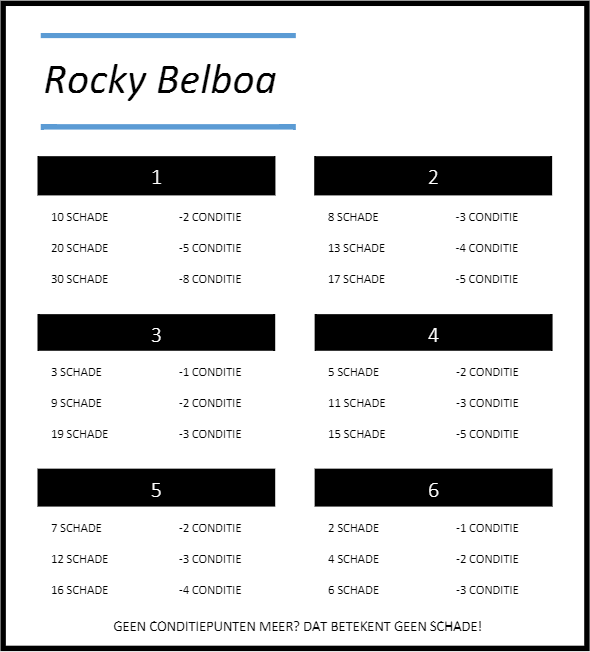
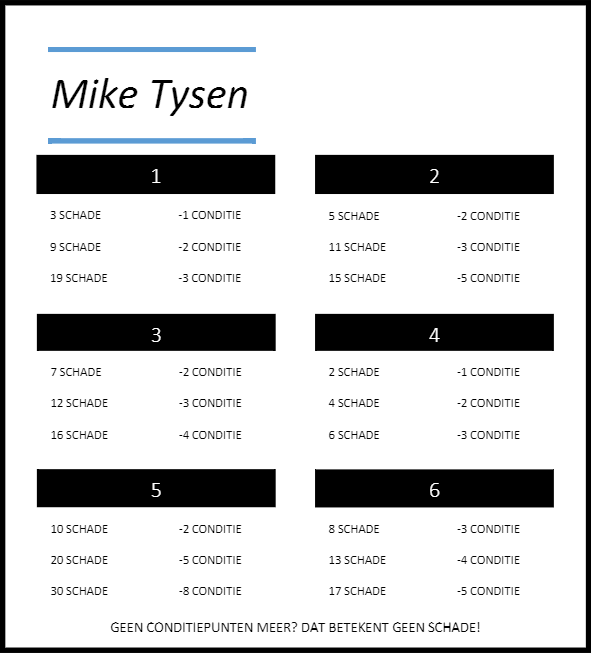
DIT FUCKING SCHERM

diff --git a/Screens.py b/Screens.py
@@ -1,3 +1,4 @@
+import os
 from Common import *
 
 pygame.display.set_caption("Super Fight Punch by SideLine")
@@ -94,8 +95,8 @@ class title2:
                 button3.DrawButton(screen, PINK)
                 if pygame.mouse.get_pressed()[0]:
                     numberOfPlayers = 1
-                    # switchScreen(game(),numberOfPlayers)
-                    switchScreen(whostarts(),numberOfPlayers)
+                    switchScreen(game(),numberOfPlayers,0)
+                    # switchScreen(whostarts(),numberOfPlayers)
             else:
                 button3.DrawButton(screen, RED)
 
@@ -104,8 +105,8 @@ class title2:
                 button4.DrawButton(screen, PINK)
                 if pygame.mouse.get_pressed()[0]:
                     numberOfPlayers = 2
-                    # switchScreen(game(),numberOfPlayers)
-                    switchScreen(whostarts(),numberOfPlayers)
+                    switchScreen(game(),numberOfPlayers,0)
+                    # switchScreen(whostarts(),numberOfPlayers)
             else:
                 button4.DrawButton(screen, RED)
 
@@ -114,8 +115,8 @@ class title2:
                 button5.DrawButton(screen, PINK)
                 if pygame.mouse.get_pressed()[0]:
                     numberOfPlayers = 3
-                    # switchScreen(game(),numberOfPlayers)
-                    switchScreen(whostarts(),numberOfPlayers)
+                    switchScreen(game(),numberOfPlayers,0)
+                    # switchScreen(whostarts(),numberOfPlayers)
             else:
                 button5.DrawButton(screen, RED)
 
@@ -124,8 +125,8 @@ class title2:
                 button6.DrawButton(screen, PINK)
                 if pygame.mouse.get_pressed()[0]:
                     numberOfPlayers = 4
-                    # switchScreen(game(),numberOfPlayers)
-                    switchScreen(whostarts(),numberOfPlayers)
+                    switchScreen(game(),numberOfPlayers,0)
+                    # switchScreen(whostarts(),numberOfPlayers)
             else:
                 button6.DrawButton(screen, RED)
 
@@ -277,17 +278,17 @@ class game:
                                 current_player.Health = 100
 
                         if current_player.Tile.Type is "fight":
-                            superFight(current_player)
+                            switchScreen(fight(),players,playerindex,"super")
 
                         if (current_player.Tile.Type is "spawn" or current_player.Tile.Type is "spawn2") and not current_player.SpawnTile:
                             if current_player.Tile.image == RED: #Red spawn tile = Player 1
-                                normalFight(current_player, players[0])
+                                switchScreen(fight(),players,playerindex,"normal",0)
                             elif current_player.Tile.image == GREEN: #Green spawn tile = Player 2
-                                normalFight(current_player, players[1])
+                                switchScreen(fight(),players,playerindex,"normal",1)
                             elif current_player.Tile.image == YELLOW: #Yellow spawn tile = PLayer 3
-                                normalFight(current_player, players[2])
+                                switchScreen(fight(),players,playerindex,"normal",2)
                             elif current_player.Tile.image == BLUE: #Blue spawn tile = Player 4
-                                normalFight(current_player, players[3])
+                                switchScreen(fight(),players,playerindex,"normal",3)
 
                         if current_player.Health < 1:
                             pass
@@ -308,30 +309,6 @@ class game:
                 a = None
 
             return current_turn, playerindex, a
-
-        def superFight(p1): #TODO
-            #Should make it display something if attack of superfighter got blocked TODO
-            #Take off Condition Points TODO
-            opponent = SuperFighters[random.randint(0, len(SuperFighters)-1)]
-            opponent.A = p1.rollDice()
-            dmg = 5 #p1.calculateDamage(p1.rollDice())
-            if opponent.Damage > p1.Damage: #player needs a damage attribute
-                p1.Health = p1.Health - (opponent.Damage - dmg)
-            else: #if player does more damage than superfighter, the attacks gets blocked therefor no damage will be taken
-                pass
-
-        def normalFight(p1, p2): #TODO
-            #display a fancy button which shows the 'fight' TODO
-            #Take off Condition Points TODO
-            numb = random.randint(1,6)
-            damageP1 = p1.calculateDamage(numb)
-            damageP2 = p2.calculateDamage(numb)
-            if damageP1 > damageP2:
-                p2.Health = p2.Health - (damageP1 - damageP2)
-            elif damageP2 > damageP1:
-                p1.Health = p1.Health - (damageP2 - damageP1)
-            else:
-                pass
 
         instructions = 0
         displayConfirmation = 0
@@ -474,6 +451,7 @@ class game:
                     button11.DrawButton(main_surface, BRIGHTRED)
                     if pygame.mouse.get_pressed(button11.Rect)[0]:
                         switchScreen(title1())
+
             pygame.display.flip()
 
 
@@ -517,6 +495,97 @@ class Instructions:
             pygame.display.flip()
 
         pygame.quit()  # Once we leave the loop, close the window.
+
+class fight:
+    def run(self,players,playerindex,type,opponent=SuperFighters[random.randint(0, len(SuperFighters)-1)]):
+
+        def superFight(p1,sf): #TODO
+            #Should make it display something if attack of superfighter got blocked TODO
+            #Take off Condition Points TODO
+            sf.A = p1.rollDice()
+            dmg = 5 #p1.calculateDamage(p1.rollDice())
+            if sf.Damage > p1.Damage: #player needs a damage attribute
+                p1.Health = p1.Health - (sf.Damage - dmg)
+            else: #if player does more damage than superfighter, the attacks gets blocked therefor no damage will be taken
+                pass
+
+        def normalFight(p1, p2): #TODO
+            #display a fancy button which shows the 'fight' TODO
+            #Take off Condition Points TODO
+            numb = random.randint(1,6)
+            damageP1 = p1.calculateDamage(numb)
+            damageP2 = p2.calculateDamage(numb)
+            if damageP1 > damageP2:
+                p2.Health = p2.Health - (damageP1 - damageP2)
+            elif damageP2 > damageP1:
+                p1.Health = p1.Health - (damageP2 - damageP1)
+            else:
+                pass
+
+        count = 6
+        if type is "super":
+            p2card = pygame.transform.scale(pygame.image.load("assets//cards//" + opponent.Name + ".png"),(500,650))
+            p2rect = p2card.get_rect()
+        elif type is "player":
+            p2card = pygame.transform.scale(pygame.image.load("assets//scorecards//sc"+str(players[opponent].Pnr)+".png"),(500,650))
+            p2rect = p2card.get_rect()
+        p1card = pygame.transform.scale(pygame.image.load("assets//scorecards//sc"+str(players[playerindex%4].Pnr)+".png"),(500,650))
+        p1rect = p1card.get_rect()
+        while count > 0:
+            ev = pygame.event.poll()  # Look for any event
+            if ev.type == pygame.QUIT:  # Window close button clicked?
+                exit()
+            mouse = pygame.mouse.get_pos()
+            screen.blit(bg, (0, 0))
+            button27.DrawButton(screen,DARKBLUE)
+            button28.DrawButton(screen,DARKBLUE)
+            button29.DrawButton(screen,DARKBLUE)
+            button30.DrawButton(screen,DARKBLUE)
+
+            textSurf, textRect = text_objects(type,largeText, WHITE)
+            textPosition = (width/2-textRect.w/2,height/6)
+            screen.blit(textSurf,textPosition)
+            if count <= 6:
+                screen.blit(p2card,(width - p1rect.w*1.08, p1rect.h/16))
+                screen.blit(p1card,(width/2 - p1rect.w*1.2, p1rect.h/16))
+                if count == 4: count -= 1
+            if count == 6 or count == 3:
+                if button30.Rect.collidepoint(mouse):
+                    button30.DrawButton(screen, BRIGHTBLUE)
+                    if pygame.mouse.get_pressed()[0]:
+                        count -= 1
+            if count <= 5:
+                text1Surf, text1rect = text_objects()
+            if count == 1 or count == 4:
+                if button27.Rect.collidepoint(mouse):
+                    button27.DrawButton(screen, BRIGHTBLUE)
+                    if pygame.mouse.get_pressed()[0]:
+                        count -= 1
+                else:
+                    button27.DrawButton(screen,BLUE)
+                if button28.Rect.collidepoint(mouse):
+                    button28.DrawButton(screen, BRIGHTBLUE)
+                    if pygame.mouse.get_pressed()[0]:
+                        count -= 1
+                else:
+                    button28.DrawButton(screen,BLUE)
+                if button29.Rect.collidepoint(mouse):
+                    button29.DrawButton(screen, BRIGHTBLUE)
+                    if pygame.mouse.get_pressed()[0]:
+                        count -= 1
+                else:
+                    button29.DrawButton(screen,BLUE)
+
+            if type is "super" and count == 2:
+                superFight(players[playerindex%4],opponent)
+                count -= 1
+            elif type is "player" and count == 2:
+                normalFight(players[playerindex%4],opponent)
+                count -= 1
+
+            pygame.display.flip()
+
+
 
 
 title1().run()

diff --git a/Common.py b/Common.py
@@ -124,6 +124,13 @@ button10 = Button("Keep playing", GREEN,(350,425,250,50),((350+125),(425+25)))
 # Exit anyway
 button11 = Button("Quit", RED,(680,425,250,50),((680+125),(425+25)))
 
+# Fight 'Screen'
+# choice1
+button27 = Button("1", BLUE,(width/2 - unit * 2, height*0.6,unit,unit),(width/2-unit*1.5,height*0.6+unit/2))
+button28 = Button("2", BLUE,(width/2 - unit/2, height*0.6,unit,unit),(width/2,height*0.6+unit/2))
+button29 = Button("3", BLUE,(width/2 + unit, height*0.6,unit,unit),(width/2+unit*1.5,height*0.6+unit/2))
+button30 = Button("ROLL", BLUE,(width/2 - unit*1.5, height*0.4,unit*3,unit*2),(width/2,height*0.4+unit))
+
 #instructionscreen
 #start
 button13 = Button("START!", GREEN, (180, 550, 250, 75),((180+125), (550+(75/2))))
@@ -225,6 +232,12 @@ def build_board():
 
 
 def playerInit(humans,startTiles,names = None): #give names as a list, in order of players
+    names = [
+        "Badr Heri",
+        "Rocky Belboa",
+        "Mike Tysen",
+        "Manny Pecquiao"
+    ]
     players = []
     pnr = 0
     if names is None:
@@ -319,7 +332,7 @@ def findNewTile(board,n,player):
             return tile
 
 
-def switchScreen(screen,optArg1 = None,optArg2 = None,optArg3 = None):
+def switchScreen(screen,optArg1 = None,optArg2 = None,optArg3 = None,optArg4=None):
     if optArg1 is None:
         screen.run()
     else:
@@ -329,4 +342,7 @@ def switchScreen(screen,optArg1 = None,optArg2 = None,optArg3 = None):
             if optArg3 is None:
                 screen.run(optArg1,optArg2)
             else:
-                screen.run(optArg1,optArg2,optArg3)
+                if optArg4 is None:
+                    screen.run(optArg1,optArg2,optArg3)
+                else:
+                    screen.run(optArg1,optArg2,optArg3,optArg4)

diff --git a/Player.py b/Player.py
@@ -1,7 +1,8 @@
-import random
+import random,pygame
 
 class Player:
     def __init__(self, health, position, condition, spawntile, texture, is_human, name, pnr):
+        pygame.init()
         self.Health = health
         self.Condition = condition
         self.SpawnTile = spawntile #has to be a Point(x,y)
@@ -13,6 +14,7 @@ class Player:
         self.Pnr = pnr
         self.Name = name
         self.Damage = 0
+        self.ScoreCard = pygame.image.load("assets//scorecards//sc"+str(self.Pnr)+".png")
 
     def draw(self,screen):
         screen.blit(self.image,(self.Tile.rect.centerx- self.rect.w/2, self.Tile.rect.centery- self.rect.h/2))
